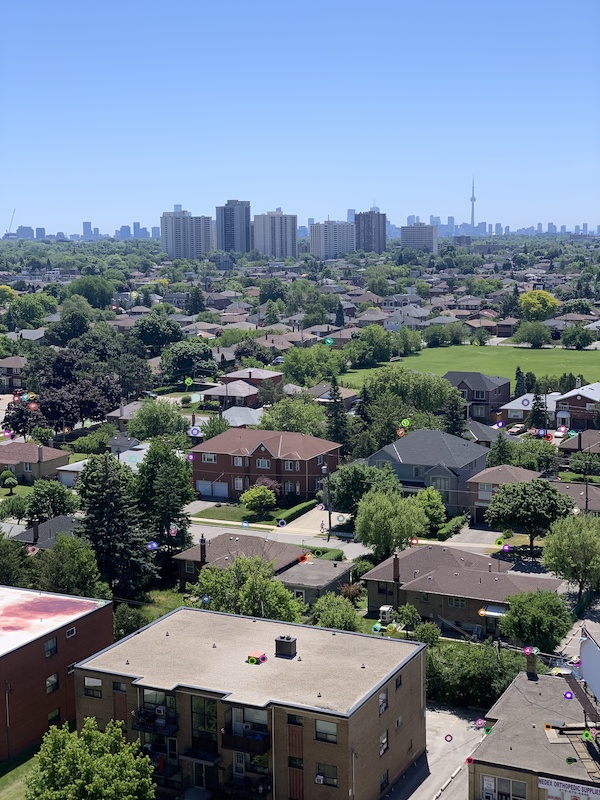
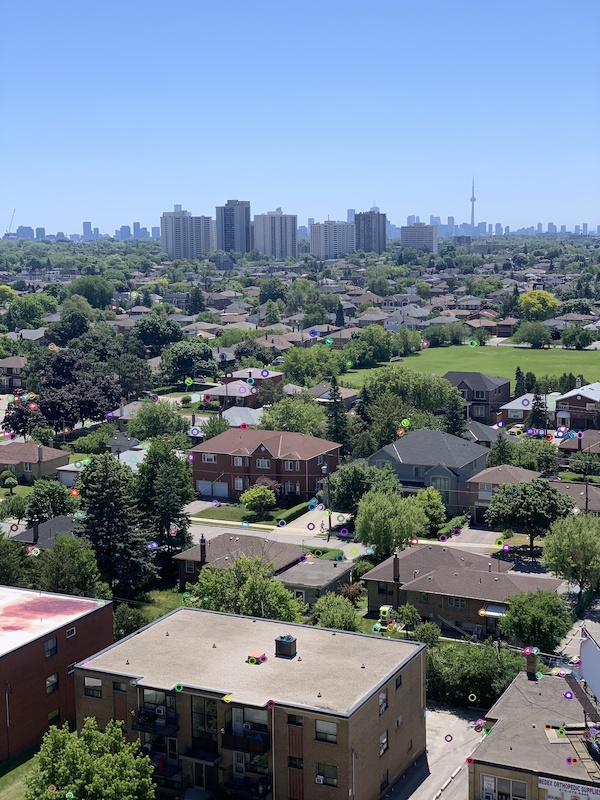
420 A3 half done

diff --git a/Assignment3/A3code.py b/Assignment3/A3code.py
@@ -7,9 +7,9 @@ from matplotlib import pyplot as plt
 from Assignment3 import A2Q7 as q7
 from scipy.io import loadmat
 
-# Code for Q1
-def Q1(imgName, threshlod,kernel=3):
 
+# Code for Q1
+def Q1(imgName, threshlod, kernel=3):
     preprocssing = q7.local_max(imgName, threshlod, kernel)
     Gaussain = preprocssing[1]
     position_vectors = preprocssing[2]
@@ -34,7 +34,7 @@ def Q1(imgName, threshlod,kernel=3):
             x_coordinate = np.clip([v[1] - 8, v[1] + 8], 0, img_shape[1] - 1)
             gradient_magnitude = magnitude[v[-1]][y_coordinate[0]:y_coordinate[1], x_coordinate[0]:x_coordinate[1]]
             orientations = orientation[v[-1]][y_coordinate[0]:y_coordinate[1], x_coordinate[0]:x_coordinate[1]]
-            weighted_magnitude = gradient_magnitude*kernel
+            weighted_magnitude = gradient_magnitude * kernel
             return_value.append([orientations, weighted_magnitude, v])
             selected_vectors.append(v)
 
@@ -51,24 +51,27 @@ def Q1(imgName, threshlod,kernel=3):
     # plt.savefig(imgName[0:-4] + "_orientation.png")
     return return_value, position_vectors
 
+
 def Q2(data):
     values = data[0]
     return_list = []
     for v in values:
-        flatten_orientation = np.ndarray.flatten(v[0]) * 180/np.pi
+        flatten_orientation = np.ndarray.flatten(v[0]) * 180 / np.pi
         flatten_weighted_magnitude = np.ndarray.flatten(v[1])
         location_vector = v[-1]
         counts = np.zeros(36)
         for i in range(0, 36):
-            counts[i] = sum(flatten_weighted_magnitude[(flatten_orientation >= i*10) & (flatten_orientation < 10*(i+1))])
+            counts[i] = sum(
+                flatten_weighted_magnitude[(flatten_orientation >= i * 10) & (flatten_orientation < 10 * (i + 1))])
         peak_index = np.argmax(counts)
         for i in range(0, 36):
-            location_vector.append(counts[int((peak_index+i) % 36)])
+            location_vector.append(counts[int((peak_index + i) % 36)])
         return_list.append(np.array(location_vector))
         # if v is values[0]:
         #     plt.hist(flatten_orientation, bins=np.arange(0, 361, 10))
         #     plt.show()
     return return_list
+
 
 def Q3(image, x0, y0, theta, s):
     img = cv.imread(image)
@@ -76,16 +79,18 @@ def Q3(image, x0, y0, theta, s):
     result = cv.warpAffine(img, rotation_matrix, img.shape[0:2])
     cv.imwrite(image[0:-4] + "_rotated.png", result)
 
+
 def Bhattacharyya_coefficient(vector1, vector2):
-    vector1 = vector1/np.sqrt(np.sum(vector1**2))
-    vector2 = vector2/np.sqrt(np.sum(vector2**2))
+    vector1 = vector1 / np.sqrt(np.sum(vector1 ** 2))
+    vector2 = vector2 / np.sqrt(np.sum(vector2 ** 2))
     BC = np.sum(np.sqrt(vector1 * vector2))
     return BC
+
 
 def Q4(originalImage, rotatedImage, original_vectors, rotated_vectors, rotation_param, window_size):
     orig_image = cv.imread(originalImage)
     rot_image = cv.imread(rotatedImage)
-    output = np.empty((orig_image.shape[0], 2*orig_image.shape[1], orig_image.shape[-1]))
+    output = np.empty((orig_image.shape[0], 2 * orig_image.shape[1], orig_image.shape[-1]))
     output[:orig_image.shape[0], :orig_image.shape[1], :] = orig_image[:, :, :]
     output[:orig_image.shape[0], orig_image.shape[1]:, :] = rot_image[:, :, :]
     rotation_matrix = cv.getRotationMatrix2D(rotation_param[0], rotation_param[1], rotation_param[2])
@@ -109,10 +114,11 @@ def Q4(originalImage, rotatedImage, original_vectors, rotated_vectors, rotation_
         value = m
         src = value[1]
         target = value[0]
-        point1 = (int(shape[1] + src[1]*2**src[-1]), int(src[0]*2**src[-1]))
-        point2 = (int(target[1]*2**target[-1]), int(target[0]*2**target[-1]))
+        point1 = (int(shape[1] + src[1] * 2 ** src[-1]), int(src[0] * 2 ** src[-1]))
+        point2 = (int(target[1] * 2 ** target[-1]), int(target[0] * 2 ** target[-1]))
         cv.line(output, point1, point2, (255, 0, 0))
-    cv.imwrite(rotatedImage[0:-4]+"_match.png", output)
+    cv.imwrite(rotatedImage[0:-4] + "_match.png", output)
+
 
 def Q7():
     sift_features = loadmat('sift_features.mat')
@@ -126,11 +132,11 @@ def Q7():
     # print(len(features_1[:, 0]))
     # print(theta)
 
-def Q8(img1, img2, feature_num, supply1=None, supply2=None, write=False):
-    orig_img1 = cv.imread(img1) if supply1 is None else supply1
-    greyScale1 = cv.cvtColor(orig_img1, cv.COLOR_RGB2GRAY)
-    orig_img2 = cv.imread(img2) if supply2 is None else supply2
-    greyScale2 = cv.cvtColor(orig_img2, cv.COLOR_RGB2GRAY)
+
+def Q8(img1, img2, feature_num, write=False):
+    orig_img1 = cv.imread(img1) if isinstance(img1, str) else img1
+    orig_img2 = cv.imread(img2) if isinstance(img2, str) else img2
+
 
     sift = cv.xfeatures2d.SIFT_create(nfeatures=feature_num)
 
@@ -140,7 +146,7 @@ def Q8(img1, img2, feature_num, supply1=None, supply2=None, write=False):
     orig_img1 = cv.drawKeypoints(orig_img1, kps1, None)
     orig_img2 = cv.drawKeypoints(orig_img2, kps2, None)
     if write == True:
-        cv.imwrite(img1[:-3]+'sift_detect.jpg', orig_img1)
+        cv.imwrite(img1[:-3] + 'sift_detect.jpg', orig_img1)
         cv.imwrite(img2[:-3] + 'sift_detect.jpg', orig_img2)
 
     bf = cv.BFMatcher()
@@ -149,14 +155,16 @@ def Q8(img1, img2, feature_num, supply1=None, supply2=None, write=False):
     r_kps1 = []
     r_kps2 = []
     for m, n in matches:
-        if m.distance < 0.75*n.distance:
+        if m.distance < 0.75 * n.distance:
             r_kps1.append(kps1[m.queryIdx])
             r_kps2.append(kps2[m.trainIdx])
             match_1.append([m])
-    output = cv.drawMatchesKnn(orig_img1, kps1, orig_img2, kps2, match_1, None,
-                               flags=cv.DrawMatchesFlags_NOT_DRAW_SINGLE_POINTS)
-    cv.imwrite("Q8_match.png", output)
+    if write:
+        output = cv.drawMatchesKnn(orig_img1, kps1, orig_img2, kps2, match_1, None,
+                                   flags=cv.DrawMatchesFlags_NOT_DRAW_SINGLE_POINTS)
+        cv.imwrite("Q8_match.png", output)
     return r_kps1, r_kps2
+
 
 def RNG(low, high, size):
     r_list = np.empty(size, dtype=int)
@@ -170,34 +178,35 @@ def RNG(low, high, size):
         count += 1
     return r_list
 
+
 def Homographic_matrix_generator():
-    matrix = np.zeros((9, 9))
-    matrix[:, 2] = [-1, 0, -1, 0, -1, 0, -1, 0, 0]
-    matrix[:, 5] = [0, -1, 0, -1, 0, -1, 0, -1, 0]
+    matrix = np.zeros((8, 9))
+    matrix[:, 2] = [1, 0, 1, 0, 1, 0, 1, 0]
+    matrix[:, 5] = [0, 1, 0, 1, 0, 1, 0, 1]
     return matrix
 
-def Homographic_matrix_filler(matrix, kps1, kps2):
 
+def Homographic_matrix_filler(matrix, kps1, kps2):
     x1, x2, x3, x4 = kps1[0, 0], kps1[0, 1], kps1[0, 2], kps1[0, 3]
     y1, y2, y3, y4 = kps1[1, 0], kps1[1, 1], kps1[1, 2], kps1[1, 3]
     xp1, xp2, xp3, xp4 = kps2[0, 0], kps2[0, 1], kps2[0, 2], kps2[0, 3]
     yp1, yp2, yp3, yp4 = kps2[1, 0], kps2[1, 1], kps2[1, 2], kps2[1, 3]
 
-    matrix[:, 0] = [-x1, 0, -x2, 0, -x3, 0, -x4, 0, 0]
-    matrix[:, 1] = [-y1, 0, -y2, 0, -y3, 0, -y4, 0, 0]
+    matrix[:, 0] = [x1, 0, x2, 0, x3, 0, x4, 0]
+    matrix[:, 1] = [y1, 0, y2, 0, y3, 0, y4, 0]
 
-    matrix[:, 3] = [0, -x1, 0, -x2, 0, -x3, 0, -x4, 0]
-    matrix[:, 4] = [0, -y1, 0, -y2, 0, -y3, 0, -y4, 0]
+    matrix[:, 3] = [0, x1, 0, x2, 0, x3, 0, x4]
+    matrix[:, 4] = [0, y1, 0, y2, 0, y3, 0, y4]
 
-    matrix[:, 6] = [x1*xp1, x1*yp1, x2*xp2, x2*yp2, x3*xp3, x3*yp3, x4*xp4, x4*yp4, 0]
-    matrix[:, 7] = [y1 * xp1, y1 * yp1, y2 * xp2, y2 * yp2, y3 * xp3, y3 * yp3, y4 * xp4, y4 * yp4, 0]
-    matrix[:, 8] = [xp1, yp1, xp2, yp2, xp3, yp3, xp4, yp4, 1]
+    matrix[:, 6] = [x1 * -xp1, x1 * -yp1, x2 * -xp2, x2 * -yp2, x3 * -xp3, x3 * -yp3, x4 * -xp4, x4 * -yp4]
+    matrix[:, 7] = [y1 * -xp1, y1 * -yp1, y2 * -xp2, y2 * -yp2, y3 * -xp3, y3 * -yp3, y4 * -xp4, y4 * -yp4]
+    matrix[:, 8] = [-xp1, -yp1, -xp2, -yp2, -xp3, -yp3, -xp4, -yp4]
     return matrix
 
 
-def Q9(img1, img2, kps1, kps2, threshold, limit=1000, supply1=None, supply2=None, write=False):
-    image1 = cv.imread(img1) if supply1 is None else supply1
-    image2 = cv.imread(img2) if supply2 is None else supply2
+def Q9(img1, img2, kps1, kps2, threshold, limit=1000, write=False):
+    image1 = cv.imread(img1) if isinstance(img1, str) else img1
+    image2 = cv.imread(img2) if isinstance(img2, str) else img2
     shape = image1.shape
     kps1_len = len(kps1)
     kps2_len = len(kps2)
@@ -207,7 +216,6 @@ def Q9(img1, img2, kps1, kps2, threshold, limit=1000, supply1=None, supply2=None
     for i in range(kps1_len):
         kps1_coord[:, i] = kps1[i].pt
 
-
     for i in range(kps2_len):
         kps2_coord[:, i] = kps2[i].pt
 
@@ -216,8 +224,6 @@ def Q9(img1, img2, kps1, kps2, threshold, limit=1000, supply1=None, supply2=None
     matched_point = []
     kps1_len = kps1_coord.shape[1]
     matrix = Homographic_matrix_generator()
-    b = np.zeros(9)
-    b[8] = 1
     iteration = 0
     while best < threshold and iteration < limit:
         temp = []
@@ -225,7 +231,8 @@ def Q9(img1, img2, kps1, kps2, threshold, limit=1000, supply1=None, supply2=None
         m1 = kps1_coord[:, random]
         m2 = kps2_coord[:, random]
         A = Homographic_matrix_filler(matrix[:, :], m1, m2)
-        result = spo.lsq_linear(A, b).x.reshape((3, 3))
+        result = np.reshape(np.linalg.svd(A)[2][8], (3, 3))
+        result /= result[2, 2]
         c_vector = np.ones(3)
         count = 0
         for i in range(kps1_len):
@@ -240,9 +247,8 @@ def Q9(img1, img2, kps1, kps2, threshold, limit=1000, supply1=None, supply2=None
             best = count
             matched_point = temp[:]
         iteration += 1
-    print(best, len(matched_point))
     if write:
-        output = np.empty((shape[0], 2*shape[1], shape[2]))
+        output = np.empty((shape[0], 2 * shape[1], shape[2]))
         output[:, :shape[1], :] = image1
         output[:, shape[1]:, :] = image2
 
@@ -251,138 +257,36 @@ def Q9(img1, img2, kps1, kps2, threshold, limit=1000, supply1=None, supply2=None
             point2 = (int(match[1][0]) + shape[1], int(match[1][1]))
             cv.line(output, point1, point2, (255, 0, 0))
         cv.imwrite('Q9_match.png', output)
+    if iteration == threshold:
+        print('Threshold reach, terminating')
     return H
 
-def Q10(img_list):
-    output = cv.imread(img_list[len(img_list)//2])
-    for i in range((len(img_list)//2) + 1, len(img_list)):
 
-        kps1, kps2 = Q8(img_list[i], output, ((len(img_list)//2) - i)*100, supply2=output)
-        H = Q9(img_list[i], output, kps1, kps2, 35, supply2=output)
-        img2 = cv.imread(img_list[i])
-        max_value = []
-        for y in range(img2.shape[0]):
-            last_point = H @ np.array([[img2.shape[1] - 1], [y], [1]])
-            first_point = last_point[0] / last_point[-1]
-            last_point1 = H @ np.array([[0], [y], [1]])
-            first_point1 = last_point1[0] / last_point1[-1]
-            max_value.append(int(first_point))
-            max_value.append(int(first_point1))
+def Q10(img1, img2):
 
-        y_values = []
-        for x in range(img2.shape[1]):
-            max_values = H @ np.array([[x], [0], [1]])
-            min_values = H @ np.array([[x], [img2.shape[0] - 1], [1]])
-            y_values.append(max_values[1]/max_values[-1])
-            y_values.append(min_values[1]/min_values[-1])
+    kps1, kps2 = Q8(img2, img1, 1000)
+    H = Q9(img1, img2, kps1, kps2, 500)
+    img1 = cv.imread(img1) if isinstance(img1, str) else img1
+    img2 = cv.imread(img2) if isinstance(img2, str) else img2
 
-        y_max_value = int(max(y_values))
-        y_min_value = int(min(y_values))
+    max_value = []
+    for y in range(img2.shape[0]):
+        last_point = H @ np.array([[img2.shape[1] - 1], [y], [1]])
+        first_point = last_point[0] / last_point[-1]
+        last_point1 = H @ np.array([[0], [y], [1]])
+        first_point1 = last_point1[0] / last_point1[-1]
+        max_value.append(int(first_point))
+        max_value.append(int(first_point1))
 
-        diff = max([int(y_max_value) - int(y_min_value), int(y_max_value)])
-
-        max_transform = max(max_value) + 1
-        furthest_x = max_transform if max_transform > output.shape[1] else output.shape[1]
-        low = 0 if y_min_value >= 0 else abs(y_min_value)
-        high = output.shape[0] + low
-
-        result = cv.warpPerspective(img2, H, (furthest_x, diff))
-        result[low:high, 0:output.shape[1]] = output
-        output = result
-
-        # a = output.shape
-        # print(temp.shape, a)
-        # temp[low:high, 0:a[1], :] = output
-        # for y in range(img2.shape[0]):
-        #     for x in range(img2.shape[1]):
-        #         transformed_point = H @ np.array([[x],[y],[1]])
-        #         coord = transformed_point[:2]/transformed_point[-1]
-        #         # print(int(coord[1]) - 1 + low)
-        #         temp[int(coord[1]) - 1 + low, int(coord[0]) - 1,:] = img2[y, x, :]
-        # output = temp[:, :, :]
-        cv.imwrite('Q10_stitch.png', output)
+    max_transform = max(max_value) + 1
+    furthest_x = max_transform if max_transform > img1.shape[1] else img1.shape[1]
+    print(furthest_x)
+    result = cv.warpPerspective(img2, H, (img1.shape[1] + img2.shape[1], img1.shape[0]))
+    result[:img1.shape[0], :img1.shape[1]] = img1
+    return result
 
 
-    for r in range(1, (len(img_list)//2) + 1):
-        j = (len(img_list)//2) - r
-        kps1, kps2 = Q8(img_list[j] ,output, 100, supply2=output)
-        H = Q9(img_list[j], output, kps1, kps2, 30, supply2=output)
-        img2 = cv.imread(img_list[j])
-
-        max_value = []
-        for y in range(img2.shape[0]):
-            last_point = H @ np.array([[img2.shape[1] - 1], [y], [1]])
-            first_point = last_point[0] / last_point[-1]
-            last_point1 = H @ np.array([[0], [y], [1]])
-            first_point1 = last_point1[0] / last_point1[-1]
-            max_value.append(int(first_point))
-            max_value.append(int(first_point1))
-
-        cloest_x = abs(min(max_value))
-
-        y_values = []
-        for x in range(img2.shape[1]):
-            max_values = H @ np.array([[x], [0], [1]])
-            min_values = H @ np.array([[x], [img2.shape[0] - 1], [1]])
-            y_values.append(max_values[1] / max_values[-1])
-            y_values.append(min_values[1] / min_values[-1])
-
-        y_max_value = int(max(y_values))
-        y_min_value = int(min(y_values))
-
-        diff = max([int(y_max_value) - int(y_min_value), int(y_max_value)])
-
-        low = 0 if y_min_value >= 0 else abs(y_min_value)
-        high = output.shape[0] + low
-
-        result = cv.warpPerspective(img2, H, (cloest_x+output.shape[1], diff))
-        print(output.shape)
-        result[low:high, cloest_x:output.shape[1] + cloest_x] = output
-        output = result
-
-        # coord = []
-        # for y in range(len(img2.shape[0])):
-        #     first_point = H @ np.array([[img2.shape[1] - 1], [img2.shape[0] - 1], [1]])
-        #     first_point = first_point[1]/first_point[-1]
-        #     coord.append(int(first_point))
-        # min_point = min(coord)
-        #
-        # y_max_values = []
-        # y_min_values = []
-        # for x in range(img2.shape[1]):
-        #     max_values = H @ np.array([[x], [0], [1]])
-        #     min_values = H @ np.array([[x], [img2.shape[0] - 1], [1]])
-        #     y_max_values.append(max_values[1] / max_values[-1])
-        #     y_min_values.append(min_values[1] / min_values[-1])
-        #
-        # y_max_value = max(y_max_values)
-        # y_min_value = min(y_min_values)
-        #
-        # diff = int(y_max_value) - int(y_min_value)
-        #
-        # temp = np.zeros((output.shape[0], output.shape[1] + abs(min_point), 3))
-        # if diff > output.shape[0]:
-        #     temp = np.zeros((diff, output.shape[0] + abs(min_point), 3))
-        # # print(furthest_x)
-        # low = 0 if y_min_value > 0 else abs(y_min_value)
-        # high = output.shape[0] + low
-        #
-        # temp[low:high, abs(min_point):, :] = output
-        #
-        # for y in img2.shape[0]:
-        #     for x in img2.shape[1]:
-        #         transformed_point = H @ np.array([[x],[y],[1]])
-        #         coord = transformed_point[:2]/transformed_point[-1]
-        #         temp[int(coord[1]) - 1 + low, int(coord[0]) - 1] = img2[y, x]
-        # output = temp
-        cv.imwrite('Q10_stitch.png', result)
-        break
-    
-
-
-
-
-if __name__ =="__main__":
+if __name__ == "__main__":
     # # Q1Values = Q1("UofT.jpg", 30, 5)
     # # print(len(Q1Values[0]))
     # # feature_vector_original = Q2(Q1Values)
@@ -400,5 +304,12 @@ if __name__ =="__main__":
                 './my_apartment/image_4.png', './my_apartment/image_5.png', './my_apartment/image_6.png',
                 './my_apartment/image_7.png', './my_apartment/image_8.png', './my_apartment/image_9.png',
                 './my_apartment/image_10.png']
-    Q10(img_list)
-
+    result_56 = Q10(img_list[5], img_list[6])
+    result_78 = Q10(img_list[7], img_list[8])
+    result_789 = Q10(result_78, img_list[9])
+    result_56789 = Q10(result_56, result_789)
+    result_43 = Q10(img_list[4], img_list[3])
+    result_21 = Q10(img_list[2], img_list[1])
+    result_210 = Q10(result_21, img_list[0])
+    result_43210 = Q10(result_43, result_210)
+    final_result = Q10(result_43210, result_56789)
